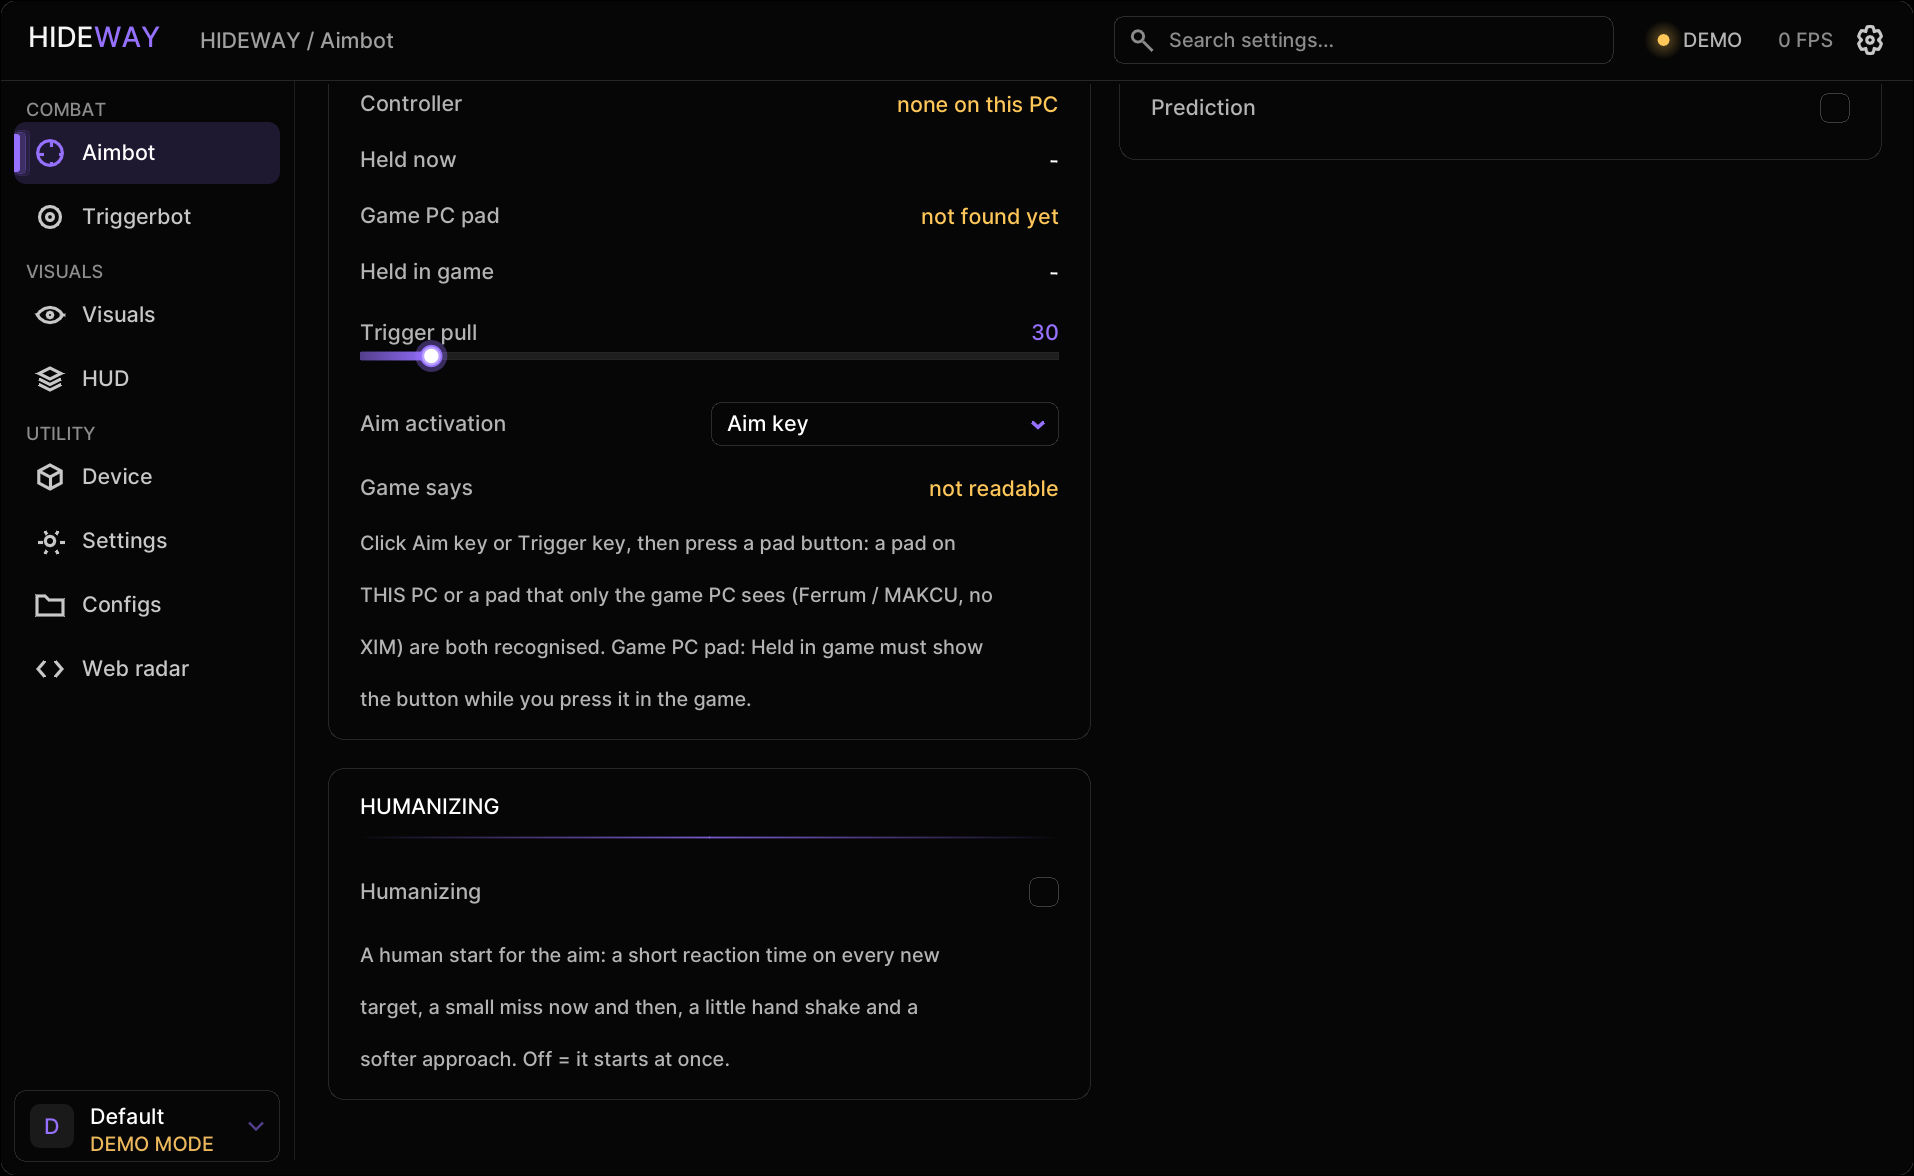
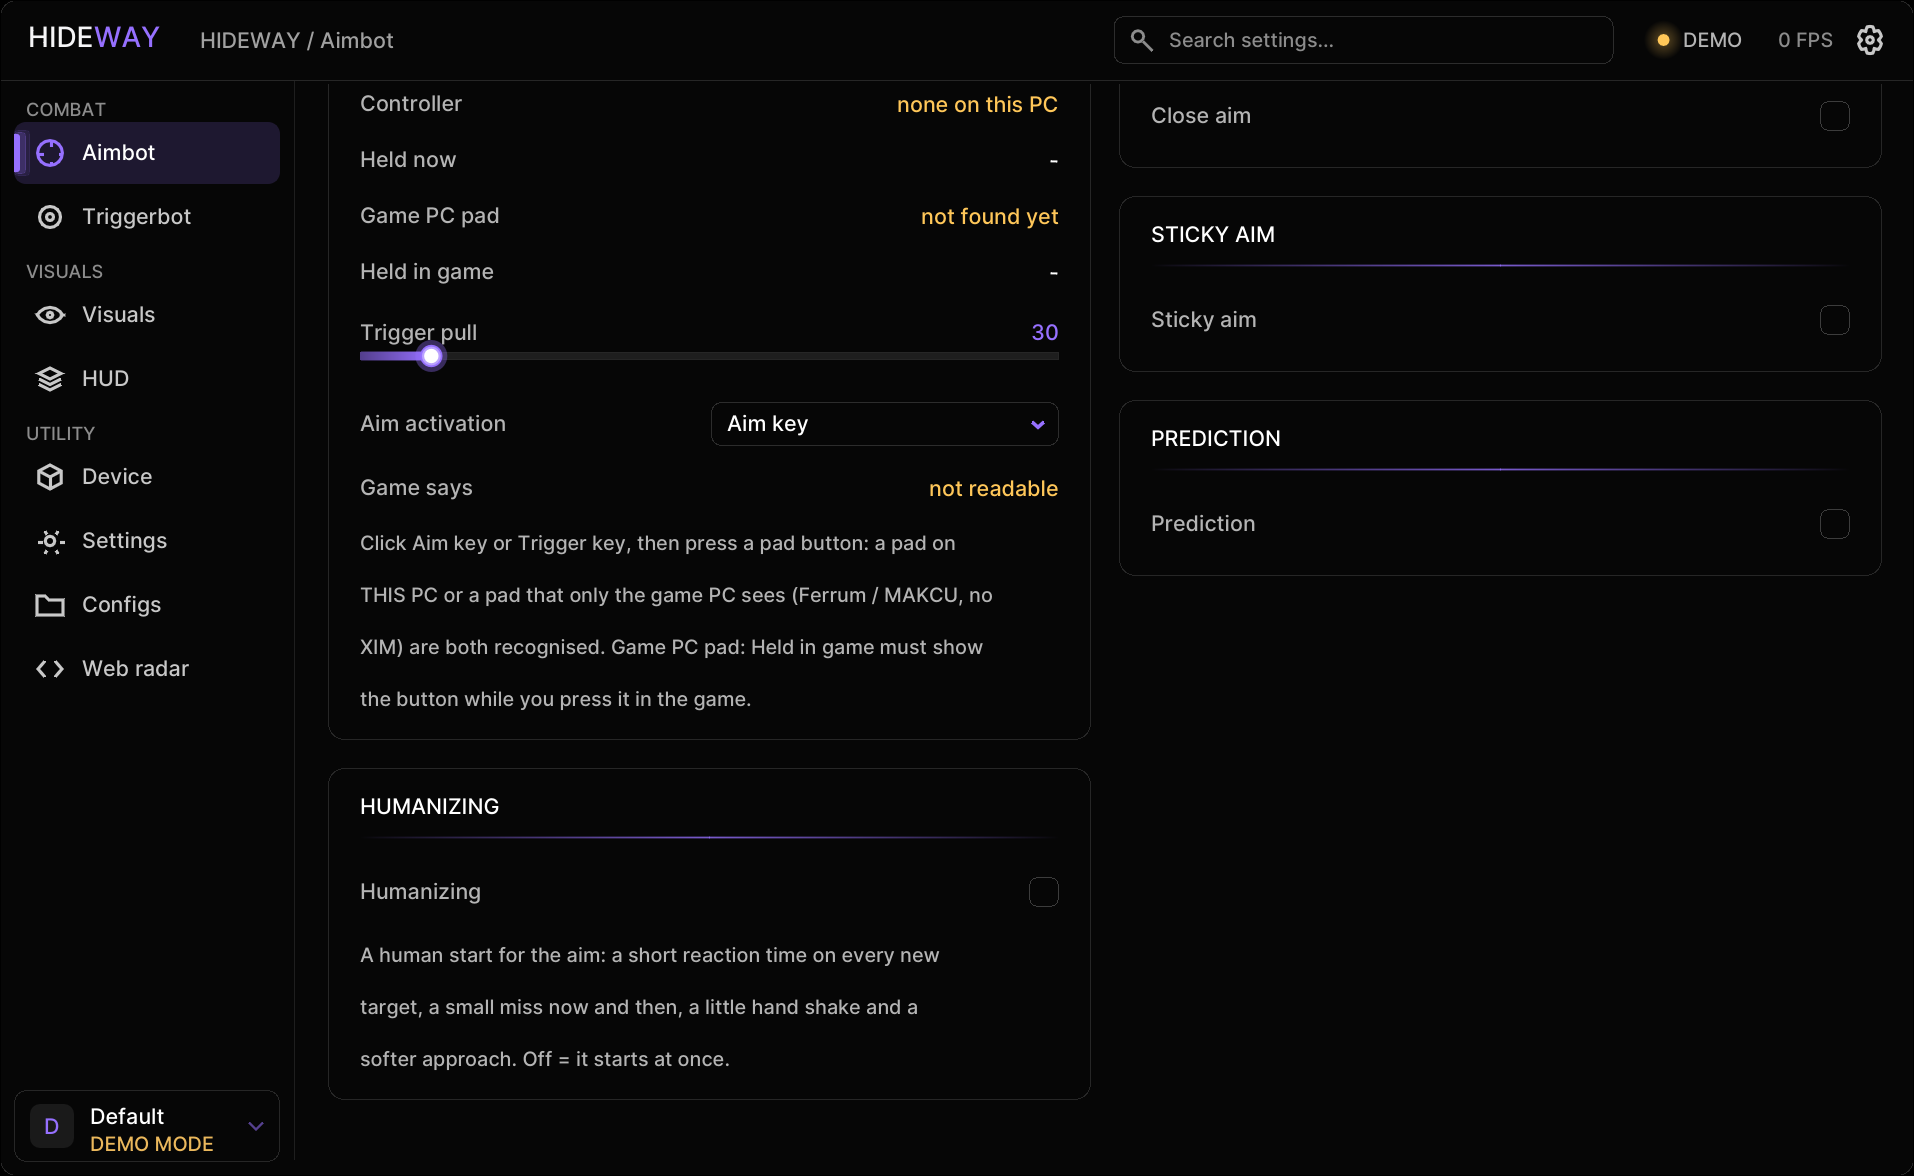
3.8.4: visibility check back in the menu, newest pose every frame, RIFLE AIM titles; Aimbot pictures redone (new VISIBILITY CHECK picture), options rows moved to the Aimbot section

diff --git a/handbook/reference/options.md b/handbook/reference/options.md
@@ -34,6 +34,10 @@ Every option in the sections below is on its page of the menu: type in the searc
 | **Read keys from the game PC** | on / off | off |  | Also read the keyboard and mouse state of the GAME PC through the DMA card, so the aim key and the trigger key can be any key of the game PC's own keyboard. Off by default: it only turns on if the key table of the game PC's Windows is found and answers sensibly (the log says so). |
 | **Even mouse stream** | on / off | off |  | The aim hands the wanted speed to a 1 kHz thread that sends it as one small mouse move every millisecond, like a real mouse, instead of one burst per rendered frame. Smoother when the overlay renders at 60 fps or hitches; it can only help the aim feel. Off = the old burst per frame. |
 | **Whitelist (names)** | text |  |  | Players whose name is on this list are never aimed at and never shot at by the triggerbot (friends, a duo partner on another team). Separate names with commas; case does not matter; the whole name has to match. The ESP still shows them. |
+| **Visible only** | on / off | on |  | Only aim at targets the game is currently drawing on screen (not behind walls). When the wall check is not ready (its geometry could not be read yet or on this build) aim keeps working on the render-time test alone; the Visibility line below says which of the two is in use. |
+| **Visibility check** | choice | UE5 render time only | UE5 render time only / Unreal line of sight / Bones (head, chest, knee) | How a player is judged visible. UE5 render time only (default): the engine's own check - visible when the mesh was drawn within the tolerance window of the world clock; no geometry is read, so it works from the first second of a match, but a player drawn behind thin cover can count as visible. Unreal line of sight: the engine's LineOfSightTo (one ray to the middle, one to the head, two to the capsule sides) against the level's collision; hidden only if all are blocked. Bones: rays to the head, chest and one knee. The two wall-trace styles need the level to be read first (a few seconds into a match). Aim always checks the bone it wants to shoot at. |
+| **Visibility tolerance** | whole number | 200 | 50 to 600 ms | A player counts as visible if the game drew them within this many milliseconds (default 200). Lower = stricter and quicker to turn red behind cover, higher = steadier green. |
+| **Wait for wall check** | on / off | on |  | With Visible only on and a ray-cast wall check style, aim does nothing until the wall check has read the level (a few seconds after a match starts), instead of trusting the render-time flag alone - which can call a player behind a wall visible. A target the game itself is aiming at (its own crosshair trace) is always allowed. Off = old behaviour: aim falls back to the render-time flag while the wall check is not ready. Has no effect with the style "UE5 render time only". |
 
 ## Weapons (per-class overrides)
 
@@ -294,12 +298,8 @@ The descriptions say what each one does; where one says it can be turned off or 
 |---|---|---|---|
 | **Aim between bones** | on / off | Forced on | Automatic. Makes 'Closest bone' aim at the point on the skeleton (any bone segment) nearest to the crosshair instead of one joint, and lets a chosen bone that is behind a wall fall back to the nearest exposed part. Skips segments behind a wall when Visible only is on. |
 | **Only with a gun in hand** | on / off | Forced on | Aim and trigger stay off while you hold a build piece, the pickaxe or an empty weapon. This is what lets you place a wall with Mouse 1 as the aim key without the aim locking onto someone through it. Judged from the held item's ammo count; if the game's weapon cannot be read, aim keeps working. |
-| **Visible only** | on / off | Forced on | Only aim at targets the game is currently drawing on screen (not behind walls). When the wall check is not ready (its geometry could not be read yet or on this build) aim keeps working on the render-time test alone; the Visibility line below says which of the two is in use. |
-| **Wait for wall check** | on / off | Forced on | With Visible only on and a ray-cast wall check style, aim does nothing until the wall check has read the level (a few seconds after a match starts), instead of trusting the render-time flag alone - which can call a player behind a wall visible. A target the game itself is aiming at (its own crosshair trace) is always allowed. Off = old behaviour: aim falls back to the render-time flag while the wall check is not ready. Has no effect with the style "UE5 render time only". |
 | **Submit-time visibility** | on / off | Forced off | Decides visible / hidden from the three render timestamps of each mesh (submitted, rendered, rendered on screen) instead of the world-clock rule: submitted recently but not drawn on screen = culled by the game's renderer. Checked against the world clock on every tick and ignored when the numbers do not look like times. Off by default. On the first live session (2.4.0) the guessed offsets did not read as times, so it had no effect; the line below it on the AIMBOT page says whether it works on your build. |
-| **Visibility check** | choice | Forced to UE5 render time only | How a player is judged visible. UE5 render time only (default): the engine's own check - visible when the mesh was drawn within the tolerance window of the world clock; no geometry is read, so it works from the first second of a match, but a player drawn behind thin cover can count as visible. Unreal line of sight: the engine's LineOfSightTo (one ray to the middle, one to the head, two to the capsule sides) against the level's collision; hidden only if all are blocked. Bones: rays to the head, chest and one knee. The two wall-trace styles need the level to be read first (a few seconds into a match). Aim always checks the bone it wants to shoot at. |
 | **Aim ease-in** | whole number | Forced to 80 ms | The aim starts gently on a new target instead of with its biggest step at once. Higher = softer start, slightly later arrival. |
-| **Visibility tolerance** | whole number | Forced to 200 ms | A player counts as visible if the game drew them within this many milliseconds (default 200). Lower = stricter and quicker to turn red behind cover, higher = steadier green. |
 | **Counts per degree X** | number | Factory default: 10 | Mouse counts that turn the view by one degree horizontally. Not in the menu: the program measures it itself once per match, at a calm moment (aim on, device connected, nobody close), with a few tiny moves that cancel out. The Debug page shows the result. |
 | **Counts per degree Y** | number | Factory default: 10 | Mouse counts that turn the view by one degree vertically. |
 

diff --git a/handbook/the-menu/aimbot.md b/handbook/the-menu/aimbot.md
@@ -1,10 +1,10 @@
 # Aimbot
 
-*Since 3.8.0 the menu is laid out like this: the **Aimbot** page has the AIMBOT, FOV CIRCLE, CONTROLLER and HUMANIZING cards on the left and TARGETS, CLOSE AIM, STICKY AIM and PREDICTION on the right, under a row of weapon tabs (Global, Rifle, Pistol, SMG, Shotgun, Sniper). The **HUMANIZING** card is at the bottom of the left column (it had its own page in 3.8.0 and 3.8.1).*
+*Since 3.8.0 the menu is laid out like this: the **Aimbot** page has the AIMBOT, FOV CIRCLE, CONTROLLER and HUMANIZING cards on the left and TARGETS, VISIBILITY CHECK (since 3.8.4), CLOSE AIM, STICKY AIM and PREDICTION on the right, under a row of weapon tabs (Global, Rifle, Pistol, SMG, Shotgun, Sniper). The **HUMANIZING** card is at the bottom of the left column (it had its own page in 3.8.0 and 3.8.1).*
 
 This page controls aim assist, close aim, sticky aim and prediction. Aim assist moves your mouse through the **input device**, so it does nothing until a device is connected. See [Connect an input device](../guides/input-device.md). For a walk-through of the settings in a sensible order, read [Tune aim and trigger](../guides/aim-and-trigger.md).
 
-<figure><img src="../.gitbook/assets/menu-aimbot.png" alt="Aimbot page, Global tab"><figcaption><p>The Global tab of the Aimbot page: the AIMBOT card on the left, TARGETS and CLOSE AIM on the right. The tabs on top are the weapon classes.</p></figcaption></figure>
+<figure><img src="../.gitbook/assets/menu-aimbot.png" alt="Aimbot page, Global tab"><figcaption><p>The Global tab of the Aimbot page: the AIMBOT card on the left, TARGETS and the start of VISIBILITY CHECK on the right. The tabs on top are the weapon classes.</p></figcaption></figure>
 
 <figure><img src="../.gitbook/assets/menu-aimbot-2.png" alt="Aimbot page, scrolled down"><figcaption><p>Scrolled down: the CONTROLLER card and HUMANIZING at the bottom of the left column.</p></figcaption></figure>
 
@@ -27,6 +27,21 @@ This page controls aim assist, close aim, sticky aim and prediction. Aim assist 
 | Third-person correction | On by default. The camera swings round your player, so a target near you needs a bigger turn than the angle it is seen at (about 1.4x at 5 m, 1.2x at 10 m, 1.07x at 30 m); this adds it, so close fights lock on faster. Hideway measures how rigidly your camera orbits and switches itself off in first person or scoped. Off = plain angles |
 | Lock until key release | Stay on the first target until you let go of the aim key |
 | Dead zone | Inside this angle the aim stops moving, so it does not shake |
+
+<figure><img src="../.gitbook/assets/menu-aimbot-3.png" alt="Aimbot page, VISIBILITY CHECK card"><figcaption><p>A little further down: FOV CIRCLE on the left, the VISIBILITY CHECK card on the right (Visible only, the method and the tolerance).</p></figcaption></figure>
+
+## VISIBILITY CHECK
+
+*Back in the menu since 3.8.4 (it was automatic from 3.3 to 3.8.3, with the same defaults).* Under TARGETS on the right.
+
+| Option | What it does |
+|---|---|
+| Visible only | On by default. The aim only goes for players the game is drawing on screen and never through a wall the game's crosshair trace shows. Off = it also locks players behind walls |
+| Visibility check | How visible is judged: **UE5 render time only** (default, the game's own check, works from the first second), **Unreal line of sight** or **Bones (head, chest, knee)** (rays against the level, ready a few seconds into a match). See [Visibility](../guides/visibility.md) |
+| Visibility tolerance | A player counts as visible if the game drew them within this many milliseconds (default 200). Lower = stricter behind cover, higher = steadier |
+| Wait for wall check | Only with one of the two ray methods: the aim waits until the level is read instead of trusting the render time alone |
+
+A weapon tab with **Override** on uses its own **Visible only** (on by default since 3.8.4; older configs get it switched on once).
 
 ## CONTROLLER
 
@@ -53,7 +68,8 @@ Shows the controllers Windows sees on **this** PC and the buttons held right now
 These are decided by Hideway so a saved config cannot leave them in a bad state. See [Automatic settings](../reference/options.md#automatic-settings-not-in-the-menu) for the full list.
 
 * **Only with a gun in hand**: aim and trigger stay off while you hold a build piece, the pickaxe or an empty weapon. If Mouse 1 is your aim key, clicking to place a wall would otherwise start the aim and lock onto whoever stands behind it. Judged from the held item's ammo count; if the game's weapon cannot be read, aim keeps working.
-* **Visible only**, **Visibility check**, **Wait for wall check**, **Visibility tolerance (200 ms)**: the aim only goes for players the game is drawing on screen, judged by the game's own render time, and it never aims through a wall that the game's crosshair trace shows. See [Visibility](../guides/visibility.md).
+
+
 * **Aim between bones**: makes **Closest bone** aim at the closest point of the skeleton to your crosshair, any bone segment (on the head it follows the crosshair up to 14 cm above the joint), and lets a chosen part that is behind a wall fall back to the nearest exposed one.
 * **Aim ease-in (80 ms)**: the aim starts gently on a new target instead of with its biggest step at once.
 * **Counts per degree X / Y**: the mouse counts that turn your view by one degree. The program measures them itself once per match, at a calm moment (aim on, device connected, nobody close), with a few tiny moves that cancel out. The Debug page shows the result. If the aim consistently overshoots or falls short, send the log.

diff --git a/handbook/the-menu/overview.md b/handbook/the-menu/overview.md
@@ -22,7 +22,7 @@ Every page has two panels, left and right. The Aimbot and Triggerbot pages start
 
 ## One menu, no modes
 
-There is no Simple / Advanced switch. Every setting you might want is on its page. Things that should simply work are automatic and are not shown: the gun-in-hand rule, aiming between bones, the visibility rule, the counts-per-degree calibration, the humanizing values, per-weapon ballistics, the trigger source, smooth ESP and the engine switches, label spacing, and the look of the radar. They are all listed under [Automatic settings](../reference/options.md#automatic-settings-not-in-the-menu).
+There is no Simple / Advanced switch. Every setting you might want is on its page. Things that should simply work are automatic and are not shown: the gun-in-hand rule, aiming between bones, the counts-per-degree calibration, the humanizing values, per-weapon ballistics, the trigger source, smooth ESP and the engine switches, label spacing, and the look of the radar. They are all listed under [Automatic settings](../reference/options.md#automatic-settings-not-in-the-menu).
 
 ## Search, tooltips and the config dropdown
 

diff --git a/handbook/the-menu/weapons.md b/handbook/the-menu/weapons.md
@@ -8,7 +8,7 @@ The Weapons page lets each class of weapon use its own aim settings.
 
 ## Per-class overrides
 
-Cards: **RIFLE**, **PISTOL**, **SMG**, **SHOTGUN**, **SNIPER**. Each has an **Override** switch. When it is on, that class uses its own **Field of view**, **Smoothing**, **Aim bone**, **Visible only**, **Trigger on** (the triggerbot fires with this class or stays quiet) and **Trigger delay** instead of the general Aimbot and Triggerbot values. When it is off, the class follows the Aimbot page.
+Cards: **RIFLE**, **PISTOL**, **SMG**, **SHOTGUN**, **SNIPER**. Each has an **Override** switch. When it is on, that class uses its own **Field of view**, **Smoothing**, **Aim bone**, **Visible only** (on by default since 3.8.4), **Trigger on** (the triggerbot fires with this class or stays quiet) and **Trigger delay** instead of the general Aimbot and Triggerbot values. When it is off, the class follows the Aimbot page.
 
 Use it, for example, to give shotguns a wide, fast aim at short range and snipers a narrow, slow one.
 

diff --git a/handbook/guides/visibility.md b/handbook/guides/visibility.md
@@ -15,7 +15,7 @@ The render-time flag is the engine's occlusion result, not a ray. A player drawn
 
 ## Settings
 
-There is nothing to tune: the visibility rule is automatic and not in the menu (**Visible only**, **Visibility check**, **Visibility tolerance** and **Wait for wall check** are decided by Hideway, see [Automatic settings](../reference/options.md#automatic-settings-not-in-the-menu)). What is yours: **Trigger visible only** on the Triggerbot page and **Visible only** per weapon class on the Weapons page.
+Since 3.8.4 the visibility rule is back in the menu: Aimbot page, card **VISIBILITY CHECK**, with **Visible only**, **Visibility check** (the method), **Visibility tolerance** and, with a wall-trace method, **Wait for wall check**. The defaults are the ones Hideway used while they were automatic (on, UE5 render time only, 200 ms). **Trigger visible only** is on the Triggerbot page, and each weapon tab with **Override** on has its own **Visible only** (on by default since 3.8.4).
 
 ## If something looks wrong
 

diff --git a/handbook/guides/aim-and-trigger.md b/handbook/guides/aim-and-trigger.md
@@ -29,7 +29,7 @@ The lock is kept through short interruptions: if the game stops drawing the lock
 
 ## 4. Visibility
 
-The aim only goes for players the game is drawing on screen, and it never aims through a wall that the game's own crosshair trace shows (**Visible only** and the rest of the visibility rule are automatic, not in the menu). How "visible" is judged is explained in [Visibility](visibility.md). If the aim seems to reach through a wall, read that page and [Aim or trigger problems](../troubleshooting/aim-and-trigger.md).
+The aim only goes for players the game is drawing on screen, and it never aims through a wall that the game's own crosshair trace shows (**Visible only** and the rest of the visibility rule are on the Aimbot page, card **VISIBILITY CHECK**). How "visible" is judged is explained in [Visibility](visibility.md). If the aim seems to reach through a wall, read that page and [Aim or trigger problems](../troubleshooting/aim-and-trigger.md).
 
 ## 5. Prediction
 

diff --git a/handbook/reference/release-notes.md b/handbook/reference/release-notes.md
@@ -3,6 +3,15 @@
 Newest first. This is the same text the launcher shows under **Updates > What's new**.
 
 
+## 3.8.4 - 2026-11-28
+
+* The visibility check is back in the menu: Aimbot > VISIBILITY CHECK (Visible only, method, tolerance).
+* Weapon tabs: Visible only is now on by default, and switched on once for older configs.
+* Skeletons move smoother: each player's newest pose is read on every frame, not on every other one.
+* The aimbot gets that newer pose too, so it reacts a frame sooner when a player moves.
+* Weapon tab card titles are upper case like the others (RIFLE AIM).
+* The licence is checked more often while Hideway runs.
+
 ## 3.8.3 - 2026-11-27
 
 * New look for the menu: darker panels, a side bar in groups with icons, and a search box and status in the header.

diff --git a/handbook/troubleshooting/esp-quality.md b/handbook/troubleshooting/esp-quality.md
@@ -45,6 +45,8 @@ Two different things can cause it:
 
 A bone array with a joint more than 2.5 m from the pelvis is rejected and the last good pose is kept, so a stray limb should not show.
 
+Since 3.8.4 each player's newest pose is read on every frame. The game keeps two copies of a pose and rewrites them in turn; Hideway used to read one copy, so it only got the newest pose every other frame. It now follows the game's own marker of which copy is finished. It checks that marker by itself at the start of each match: the log says *pose buffers: the game's read index found* when it is used, or *no read index* when it is not (then skeletons are read the old way, nothing breaks).
+
 ## An enemy vanishes for a few seconds
 
 Check these in order:

diff --git a/handbook/troubleshooting/aim-and-trigger.md b/handbook/troubleshooting/aim-and-trigger.md
@@ -42,7 +42,7 @@ From most to least likely:
 2. The game draws a player behind thin cover and calls them visible (the aim follows the game's own render time). See [Visibility](../guides/visibility.md).
 3. It is too early in the match. Until the wall check is ready the render-time flag is all that is used.
 
-The visibility rule (Visible only, the Visibility check style and its tolerance) is automatic and not in the menu.
+The visibility rule is on the Aimbot page, card **VISIBILITY CHECK** (since 3.8.4): **Visible only**, **Visibility check** (the method), **Visibility tolerance** and **Wait for wall check**. A weapon tab with **Override** on uses its own **Visible only**.
 
 ## Trigger fires through a wall
 
